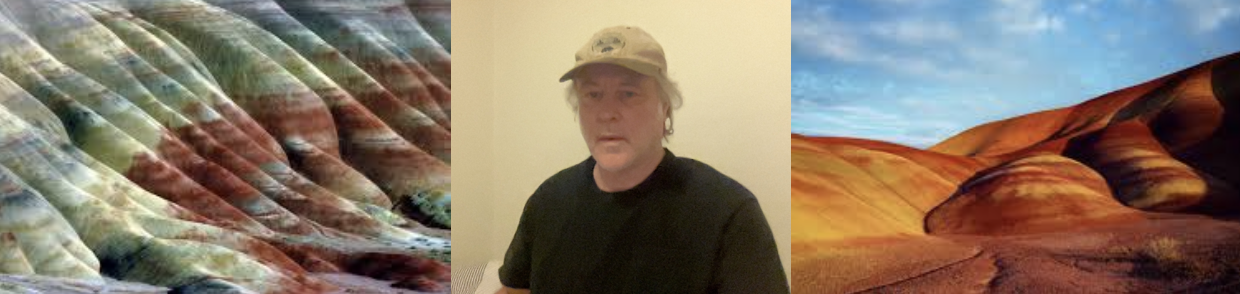
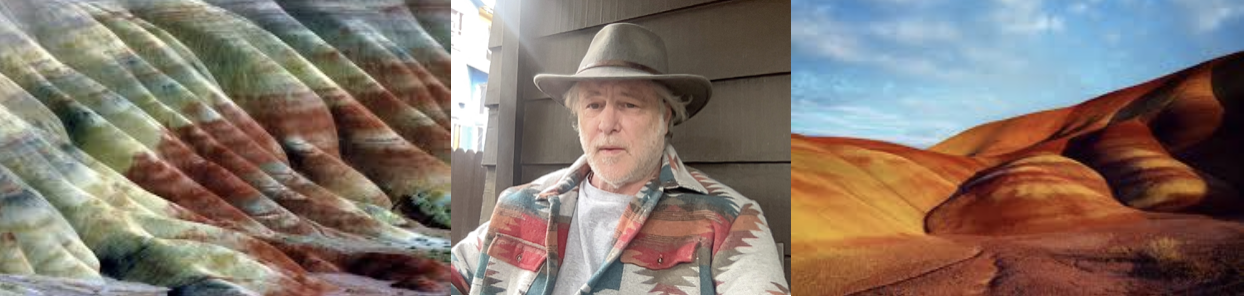
Add files via upload

diff --git a/about.html b/about.html
@@ -70,7 +70,7 @@ text-align: center;
 <p style="text-align:left;">
 </p>
 <p></p>
-<p><img src="Oct_03_2026.jpg" alt="ian" width="200"></p>
+<p><img src="Oct_10_2026.jpg" alt="ian" width="200"></p>
 
 <p>Ian Beardsley has put forward a theory for inertia that predicts the proton, electron, and neutron. The theory is based on a one-second invariant, or 2pi Hz resonance that he has found on the scale of the Solar System, as well. Merging his theory with the David Blackwell’s ODIM-U informational metric they have put forward a solution to the Alcubierre machine that does not require exotic matters; a solution for warp drive, that is, that does not require exotic matters. The 2pi resonance seems to provide a solution for powering the ship with zero point energy, a solid state gravitational floor (gravity without rotational centripetal force), and hyper-relay, the ability to communicate across the galaxy instantaneously.</p>
 
